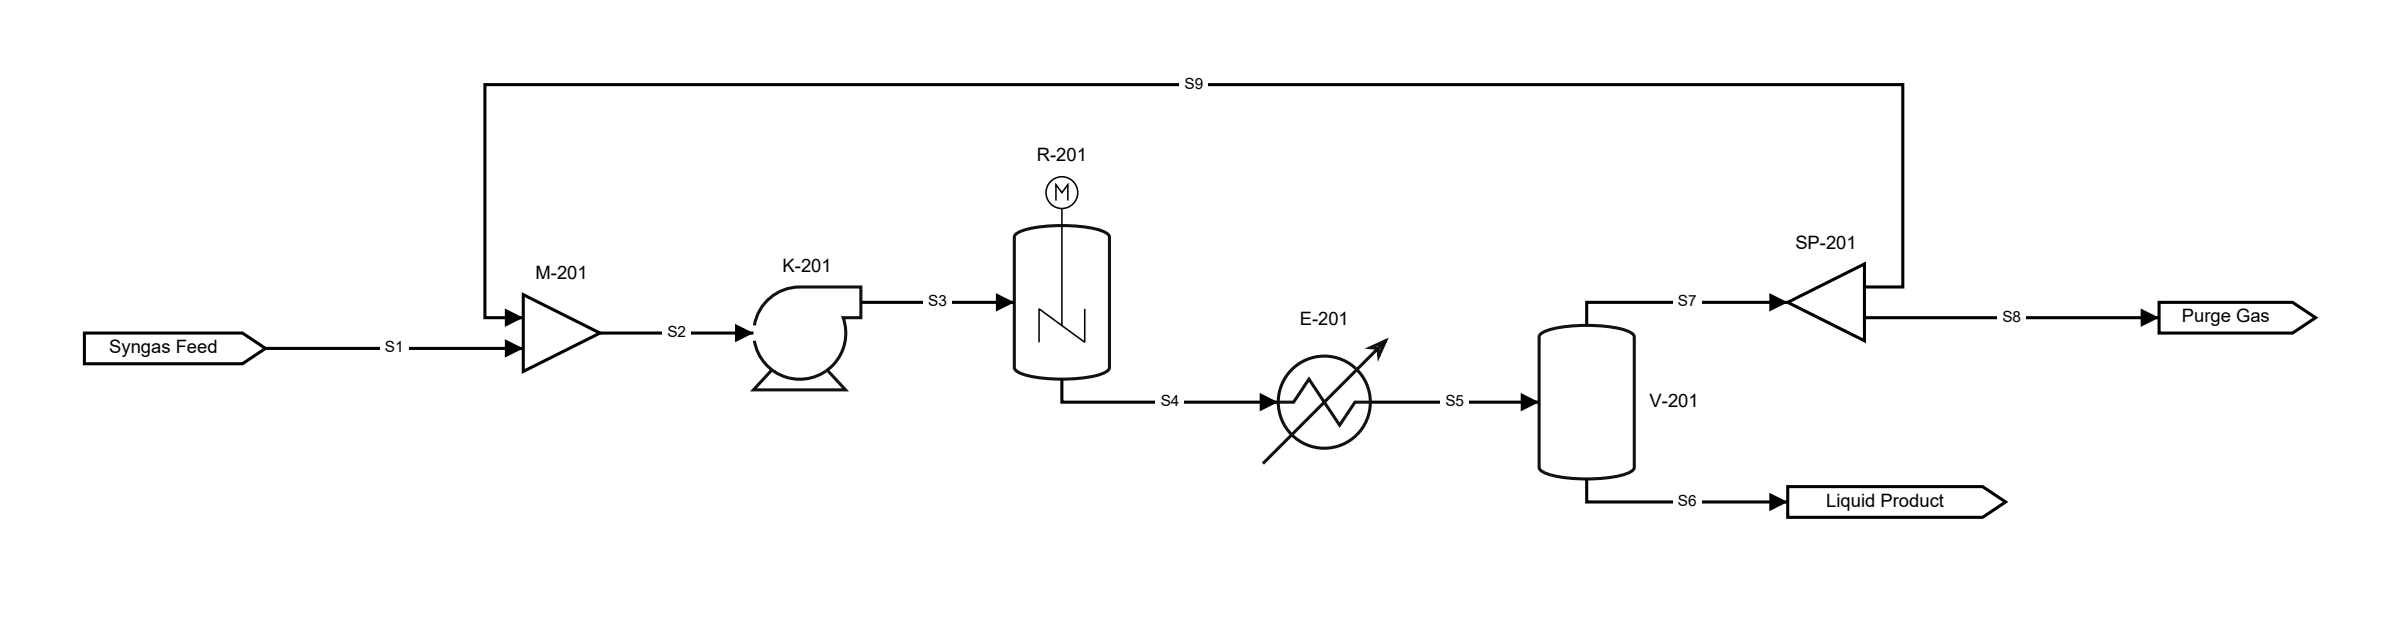
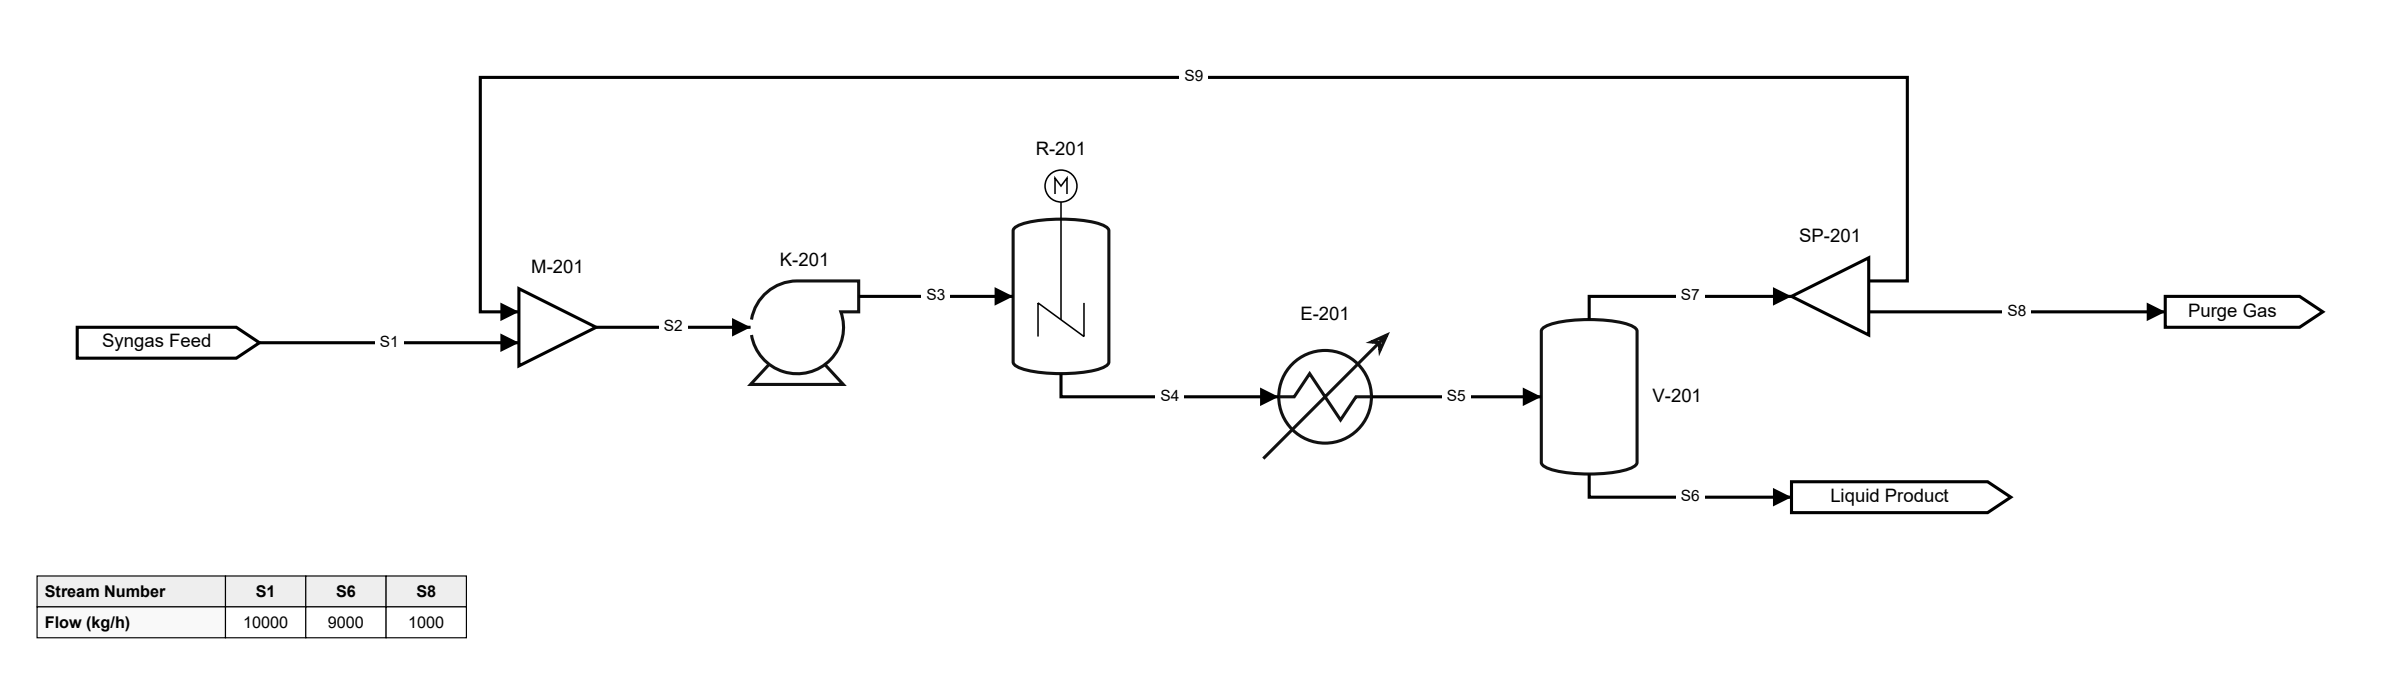
fix(examples): tabulate the reactor-recycle loop's boundary streams
05_reactor_recycle raised stream-table-missing (#410). The recycle stays
inside the loop, so what crosses the sheet edge is the feed against the
liquid product plus the purge that bleeds inerts off it -- a routine 10%
purge fraction. Render with show_stream_table=True to report it.

diff --git a/tests/test_golden.py b/tests/test_golden.py
@@ -362,15 +362,18 @@ def _reactor_recycle() -> Flowsheet:
     split = fs.add(units.Splitter("SP-201", n_outlets=2))
     prod = fs.add(units.Product("Liquid Product"))
     purge = fs.add(units.Product("Purge Gas"))
-    fs.connect(feed.outlet, mix.in_2)
+    feed_in = fs.connect(feed.outlet, mix.in_2)
     fs.connect(mix.outlet, comp.suction)
     fs.connect(comp.discharge, rx.feed)
     fs.connect(rx.outlet, cool.inlet)
     fs.connect(cool.outlet, sep.feed)
-    fs.connect(sep.liquid, prod.inlet)
+    product_out = fs.connect(sep.liquid, prod.inlet)
     fs.connect(sep.vapor, split.inlet)
-    fs.connect(split.out_2, purge.inlet)
+    purge_out = fs.connect(split.out_2, purge.inlet)
     fs.connect(split.out_1, mix.in_1, draw_as_recycle=True)
+    feed_in.properties = {"Flow (kg/h)": "10000"}
+    product_out.properties = {"Flow (kg/h)": "9000"}
+    purge_out.properties = {"Flow (kg/h)": "1000"}
     return fs
 
 
@@ -4117,7 +4120,7 @@ SCENARIOS = {
     "02_manual_layout": (_manual_layout, {"debug": True, "show_stream_table": True}),
     "03_distillation_train": (_distillation_train, {"show_stream_table": True, "border": "zone"}),
     "04_control_loop": (_control_loop, {"show_stream_table": True}),
-    "05_reactor_recycle": (_reactor_recycle, {}),
+    "05_reactor_recycle": (_reactor_recycle, {"show_stream_table": True}),
     "06_column_reflux": (_column_reflux, {}),
     "07_metering_skid": (_metering_skid, {}),
     "08_from_data": (_from_data, {"show_stream_table": True, "border": "zone"}),

diff --git a/examples/05_reactor_recycle.py b/examples/05_reactor_recycle.py
@@ -31,17 +31,24 @@ def main():
     prod = fs.add(Product("Liquid Product"))
     purge = fs.add(Product("Purge Gas"))
 
-    fs.connect(feed.outlet, mix.in_2)
+    feed_in = fs.connect(feed.outlet, mix.in_2)
     fs.connect(mix.outlet, comp.suction)
     fs.connect(comp.discharge, rx.feed)
     fs.connect(rx.outlet, cool.inlet)
     fs.connect(cool.outlet, sep.feed)
-    fs.connect(sep.liquid, prod.inlet)
+    product_out = fs.connect(sep.liquid, prod.inlet)
     fs.connect(sep.vapor, split.inlet)
-    fs.connect(split.out_2, purge.inlet)
+    purge_out = fs.connect(split.out_2, purge.inlet)
     fs.connect(split.out_1, mix.in_1, draw_as_recycle=True)
 
-    fs.render(out("reactor_recycle.svg"))
+    # The recycle stays inside the loop, so what crosses the sheet edge
+    # is the feed against the liquid product plus the purge that bleeds
+    # inerts off it -- a routine 10% purge fraction.
+    feed_in.properties = {"Flow (kg/h)": "10000"}
+    product_out.properties = {"Flow (kg/h)": "9000"}
+    purge_out.properties = {"Flow (kg/h)": "1000"}
+
+    fs.render(out("reactor_recycle.svg"), show_stream_table=True)
     print("Generated reactor_recycle.svg")
 
 
